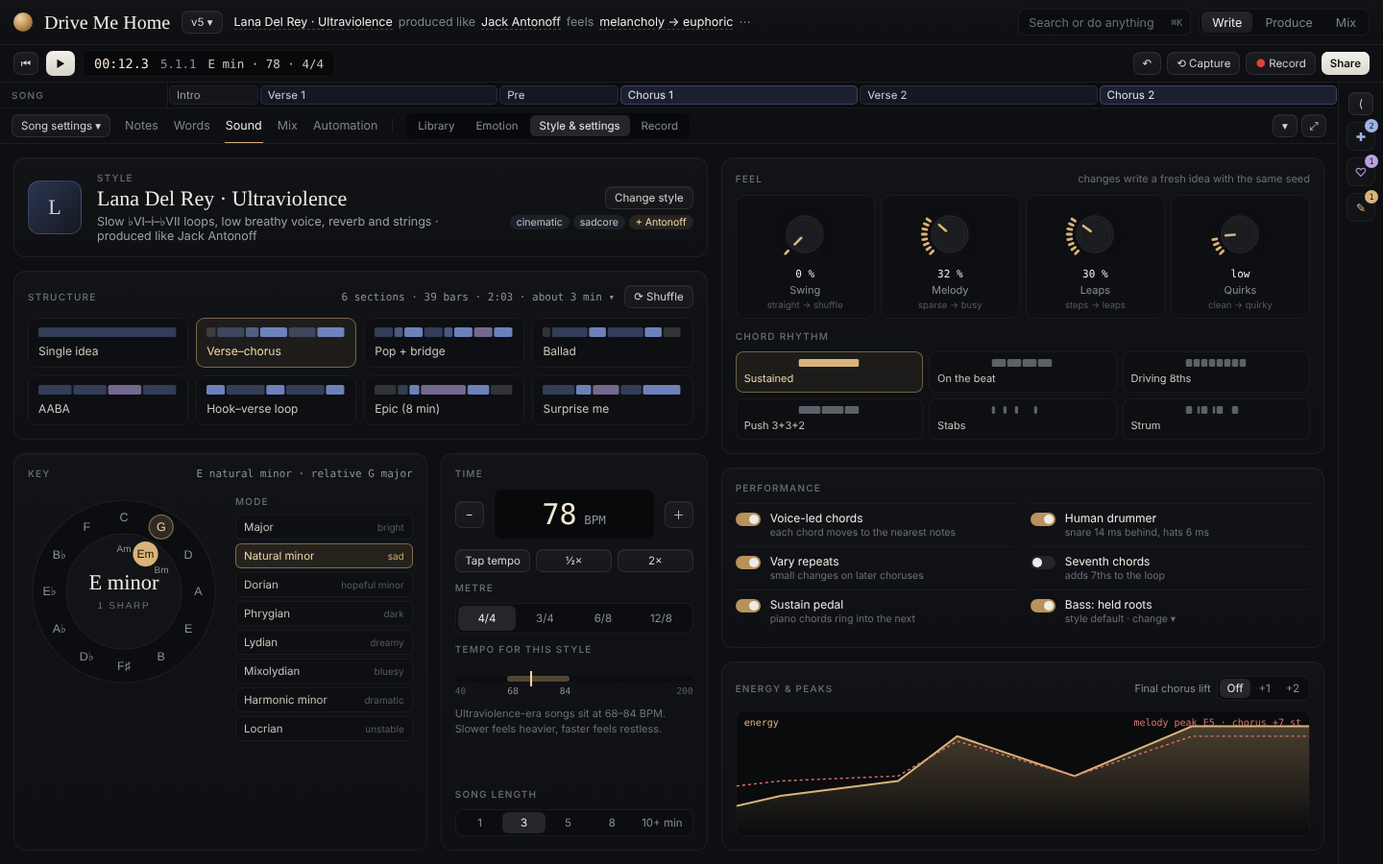
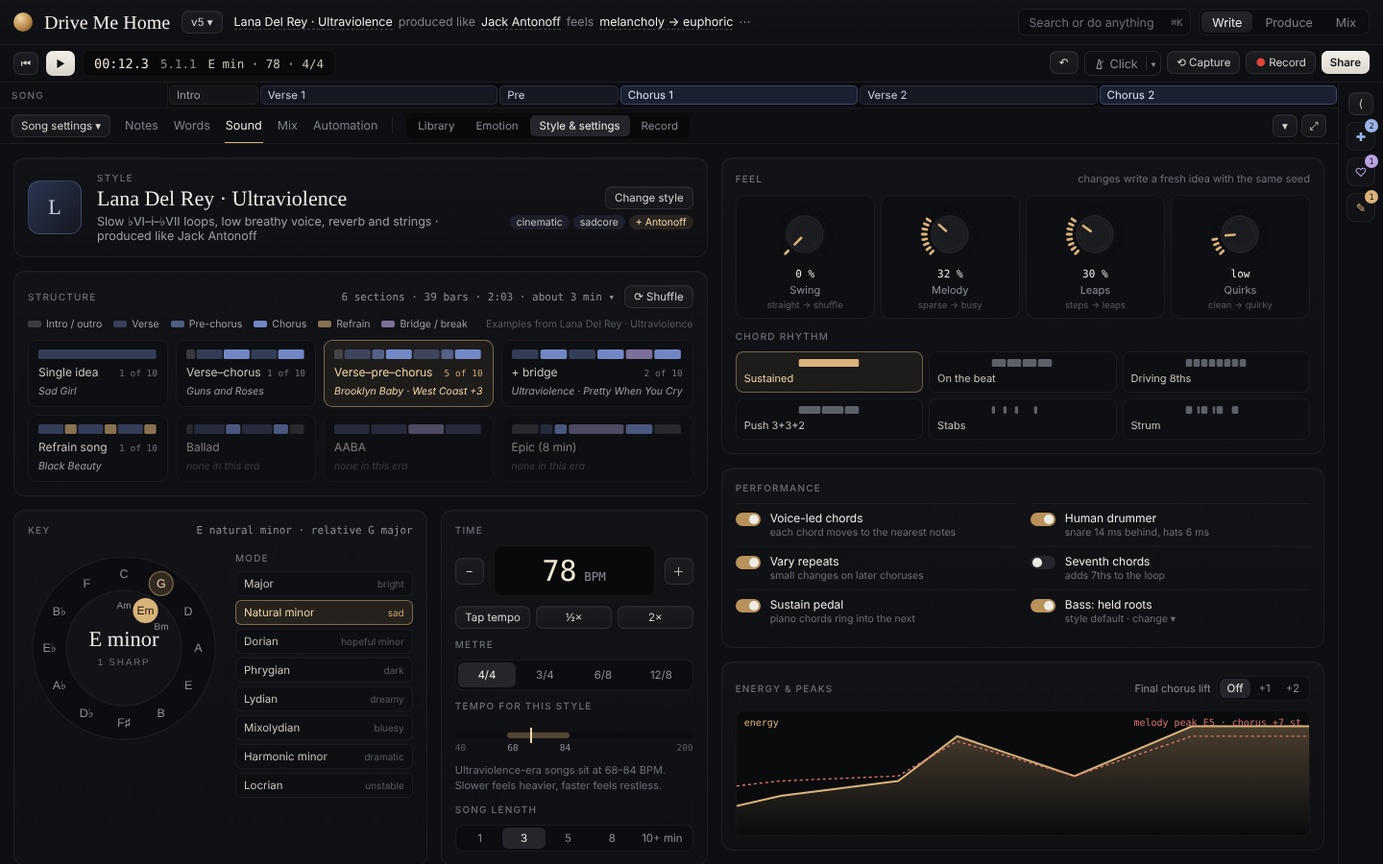
Design: structure cards with the artist's examples and a section colour key; click track (transport toggle, when, sounds incl. your sample, patterns, follows tempo and metre)
Claude-Session: https://claude.ai/code/session_01Gwi5mznyCGAVwjhLcrp4R8

diff --git a/docs/design/panels/reference-Record.dc.html b/docs/design/panels/reference-Record.dc.html
@@ -22,7 +22,7 @@ button{cursor:pointer;white-space:nowrap}
 .xs{height:24px;padding:0 9px;font-size:11.5px}
 </style>
 </helmet>
-<div style="height: 900px; background: #0A0B0D; color: #EDEBE6; font-family: 'Inter Tight', system-ui, sans-serif; font-size: 12.5px; display: flex; flex-direction: column; overflow: hidden">
+<div style="position: relative; height: 900px; background: #0A0B0D; color: #EDEBE6; font-family: 'Inter Tight', system-ui, sans-serif; font-size: 12.5px; display: flex; flex-direction: column; overflow: hidden">
   <header style="height: 46px; flex-shrink: 0; display: flex; align-items: center; gap: 12px; padding: 0 14px; border-bottom: 1px solid rgba(255,255,255,.06); background: linear-gradient(#121316,#0E0F12); white-space: nowrap">
     <span style="flex-shrink: 0; width: 20px; height: 20px; border-radius: 50%; background: radial-gradient(circle at 35% 30%, #F1D6A6, #B8894A 55%, #5E4524)"></span>
     <span class="serif" style="font-size: 20px">Drive Me Home</span><button class="ghost xs">v5 ▾</button>
@@ -33,7 +33,7 @@ button{cursor:pointer;white-space:nowrap}
   <div style="height: 38px; flex-shrink: 0; display: flex; align-items: center; gap: 8px; padding: 0 14px; border-bottom: 1px solid rgba(255,255,255,.06); background: #0E0F12; white-space: nowrap">
     <button class="ghost xs" style="width: 26px; padding: 0">⏮</button><button style="width: 30px; height: 26px; border-radius: 7px; border: 0; background: linear-gradient(#F3F0EA,#D6D2C8); color: #111; font-size: 10px">▶</button>
     <span style="display: flex; align-items: center; gap: 12px; height: 26px; padding: 0 11px; border-radius: 7px; background: #08090A; border: 1px solid rgba(255,255,255,.05)"><span class="mono" style="color: #F1E7D4; font-size: 13.5px">00:12.3</span><span class="mono" style="color: #8A8F98">5.1.1</span><span class="mono" style="color: #C9C5BC">E min · 78 · 4/4</span></span>
-    <span style="margin-left: auto; display: flex; gap: 6px"><button class="ghost xs">↶</button><button class="ghost xs">⟲ Capture</button><button class="ghost xs"><span style="color: #E0443A">●</span> Record</button><button class="prim xs">Share</button></span>
+    <span style="margin-left: auto; display: flex; gap: 6px"><button class="ghost xs">↶</button><sc-if value="{{clickBtn}}" hint-placeholder-val="{{false}}"><span style="display: flex; align-items: center; height: 24px; border-radius: 7px; border: 1px solid {{clickBtn.line}}; background: {{clickBtn.bg}}; overflow: hidden"><button title="Click track (C) · right-click for options" style="height: 22px; padding: 0 8px; border: 0; background: transparent; color: {{clickBtn.ink}}; display: flex; align-items: center; gap: 5px"><svg viewBox="0 0 16 16" width="13" height="13" aria-hidden="true"><path d="M5 14 L7.5 2.5 H8.5 L11 14 Z M8 9 L13 4" fill="none" stroke="{{clickBtn.ink}}" stroke-width="1.3" stroke-linejoin="round"></path></svg>{{clickBtn.n}}</button><span style="width: 1px; height: 14px; background: {{clickBtn.line}}"></span><button style="height: 22px; padding: 0 5px; border: 0; background: transparent; color: {{clickBtn.ink}}; font-size: 9px">▾</button></span></sc-if><button class="ghost xs">⟲ Capture</button><button class="ghost xs"><span style="color: #E0443A">●</span> Record</button><button class="prim xs">Share</button></span>
   </div>
   <div style="flex: 1; display: flex; min-height: 0">
     <main style="flex: 1; min-width: 0; display: flex; flex-direction: column">
@@ -60,7 +60,7 @@ button{cursor:pointer;white-space:nowrap}
     </div>
     <div style="padding: 14px; border-radius: 12px; background: linear-gradient(#121316, #0F1013); border: 1px solid rgba(255,255,255,.06); box-shadow: inset 0 1px 0 rgba(255,255,255,.03); display: flex; flex-direction: column; gap: 10px; min-width: 0">
       <div style="display: flex; justify-content: space-between; align-items: baseline"><span class="sm">MIDI keyboard</span><span style="color: #8A8F98; font-size: 11px">KeyLab 49 · connected</span></div>
-      <svg viewBox="0 0 280 46" style="width: 100%; height: 46px" aria-hidden="true"><sc-for list="{{wk}}" as="k" hint-placeholder-count="21"><rect x="{{k.x}}" y="0" width="12.6" height="46" rx="2" fill="{{k.f}}"></rect></sc-for><sc-for list="{{bk}}" as="k" hint-placeholder-count="15"><rect x="{{k.x}}" y="0" width="8" height="28" rx="1.5" fill="{{k.f}}"></rect></sc-for></svg>
+      <svg viewBox="0 0 280 46" style="width: 100%; height: 46px" aria-hidden="true"><sc-for list="{{wk}}" as="k" hint-placeholder-count="21"><rect x="{{k.x}}" y="0" width="12.6" height="46" rx="2" fill="{{k.f}}" stroke="rgba(255,255,255,.12)"></rect></sc-for><sc-for list="{{bk}}" as="k" hint-placeholder-count="15"><rect x="{{k.x}}" y="0" width="8" height="28" rx="1.5" fill="{{k.f}}"></rect></sc-for></svg>
       <div style="display: flex; gap: 6px; flex-wrap: wrap"><button class="ghost xs">Computer keys</button><button class="ghost xs">Snap 1/16 ▾</button><button class="ghost xs">Controller ◎</button></div>
     </div>
     <div style="padding: 14px; border-radius: 12px; background: linear-gradient(#121316, #0F1013); border: 1px solid rgba(255,255,255,.06); box-shadow: inset 0 1px 0 rgba(255,255,255,.03); display: flex; flex-direction: column; gap: 10px; min-width: 0; flex: 1">
@@ -74,7 +74,7 @@ button{cursor:pointer;white-space:nowrap}
     <div style="padding: 14px; border-radius: 12px; background: linear-gradient(#121316, #0F1013); border: 1px solid rgba(255,255,255,.06); box-shadow: inset 0 1px 0 rgba(255,255,255,.03); display: flex; flex-direction: column; gap: 10px; min-width: 0">
       <div style="display: flex; justify-content: space-between; align-items: baseline"><span class="sm">What are you recording?</span><span style="color: #6B7079; font-size: 11px">into <span style="color: #EDEBE6">Verse 1</span> · from bar 5</span></div>
       <div style="display: grid; grid-template-columns: repeat(4, 1fr); gap: 8px"><sc-for list="{{modesR}}" as="m" hint-placeholder-count="4"><div style="padding: 12px; border-radius: 10px; background: {{m.bg}}; border: 1px solid {{m.line}}; display: flex; flex-direction: column; gap: 6px"><span style="width: 30px; height: 30px; border-radius: 8px; background: {{m.tint}}; color: {{m.c}}; display: flex; align-items: center; justify-content: center; font-size: 14px">{{m.i}}</span><span style="font-weight: 500">{{m.n}}</span><span style="color: #6B7079; font-size: 11px; line-height: 1.4">{{m.d}}</span></div></sc-for></div>
-      <div style="display: flex; gap: 8px; align-items: center; flex-wrap: wrap"><span class="sm">Backing</span><div style="display: flex; padding: 2px; border-radius: 8px; background: #0C0D10; border: 1px solid rgba(255,255,255,.06)"><sc-for list="{{backing}}" as="o" hint-placeholder-count="4"><button style="flex: 1; height: 22px; padding: 0 8px; border-radius: 6px; border: 0; background: {{o.bg}}; color: {{o.ink}}; font-size: 11.5px; white-space: nowrap">{{o.n}}</button></sc-for></div><span class="sm" style="margin-left: 6px">Count-in</span><div style="display: flex; padding: 2px; border-radius: 8px; background: #0C0D10; border: 1px solid rgba(255,255,255,.06)"><sc-for list="{{count}}" as="o" hint-placeholder-count="4"><button style="flex: 1; height: 22px; padding: 0 8px; border-radius: 6px; border: 0; background: {{o.bg}}; color: {{o.ink}}; font-size: 11.5px; white-space: nowrap">{{o.n}}</button></sc-for></div><span style="display: flex; align-items: center; gap: 6px; margin-left: 6px; color: #C9C5BC"><span style="width: 22px; height: 12px; border-radius: 999px; background: #B8925A; position: relative"><span style="position: absolute; top: 2px; left: 12px; width: 8px; height: 8px; border-radius: 50%; background: #EDEBE6"></span></span>Snap to the key</span>
+      <div style="display: flex; gap: 8px; align-items: center; flex-wrap: wrap"><span class="sm">Backing</span><div style="display: flex; padding: 2px; border-radius: 8px; background: #0C0D10; border: 1px solid rgba(255,255,255,.06)"><sc-for list="{{backing}}" as="o" hint-placeholder-count="4"><button style="flex: 1; height: 22px; padding: 0 8px; border-radius: 6px; border: 0; background: {{o.bg}}; color: {{o.ink}}; font-size: 11.5px; white-space: nowrap">{{o.n}}</button></sc-for></div><span class="sm" style="margin-left: 6px">Click</span><div style="display: flex; padding: 2px; border-radius: 8px; background: #0C0D10; border: 1px solid rgba(255,255,255,.06)"><sc-for list="{{clickSeg}}" as="o" hint-placeholder-count="4"><button style="flex: 1; height: 22px; padding: 0 8px; border-radius: 6px; border: 0; background: {{o.bg}}; color: {{o.ink}}; font-size: 11.5px; white-space: nowrap">{{o.n}}</button></sc-for></div><span class="sm" style="margin-left: 6px">Count-in</span><div style="display: flex; padding: 2px; border-radius: 8px; background: #0C0D10; border: 1px solid rgba(255,255,255,.06)"><sc-for list="{{count}}" as="o" hint-placeholder-count="4"><button style="flex: 1; height: 22px; padding: 0 8px; border-radius: 6px; border: 0; background: {{o.bg}}; color: {{o.ink}}; font-size: 11.5px; white-space: nowrap">{{o.n}}</button></sc-for></div><span style="display: flex; align-items: center; gap: 6px; margin-left: 6px; color: #C9C5BC"><span style="width: 22px; height: 12px; border-radius: 999px; background: #B8925A; position: relative"><span style="position: absolute; top: 2px; left: 12px; width: 8px; height: 8px; border-radius: 50%; background: #EDEBE6"></span></span>Snap to the key</span>
         <button style="margin-left: auto; height: 34px; padding: 0 18px; border-radius: 9px; border: 0; background: linear-gradient(#F0625A,#C93A31); color: #fff; font-weight: 600; box-shadow: 0 0 18px rgba(224,68,58,.35)">● Record  <span class="mono" style="opacity: .7; font-size: 10.5px">R</span></button></div>
     </div>
     <div style="padding: 14px; border-radius: 12px; background: linear-gradient(#121316, #0F1013); border: 1px solid rgba(255,255,255,.06); box-shadow: inset 0 1px 0 rgba(255,255,255,.03); display: flex; flex-direction: column; gap: 10px; min-width: 0; flex: 1">
@@ -107,7 +107,17 @@ button{cursor:pointer;white-space:nowrap}
       <sc-for list="{{railI}}" as="r" hint-placeholder-count="3"><button style="position: relative; width: 30px; height: 30px; border-radius: 8px; border: 1px solid rgba(255,255,255,.06); background: #121316; color: {{r.c}}">{{r.i}}<span class="mono" style="position: absolute; right: -4px; top: -4px; min-width: 14px; height: 14px; border-radius: 999px; background: {{r.c}}; color: #141210; font-size: 8.5px; display: flex; align-items: center; justify-content: center">{{r.n}}</span></button></sc-for>
     </aside>
   </div>
-</div>
+
+  <div role="dialog" aria-label="Click track" style="position: absolute; left: 640px; top: 88px; width: 540px; border-radius: 14px; background: linear-gradient(#121316, #0E0F12); border: 1px solid rgba(255,255,255,.09); box-shadow: 0 30px 80px rgba(0,0,0,.75); z-index: 9; overflow: hidden">
+    <div style="padding: 12px 14px; display: flex; align-items: center; gap: 10px; border-bottom: 1px solid rgba(255,255,255,.06)"><span class="serif" style="font-size: 20px">Click</span><span class="mono" style="padding: 2px 8px; border-radius: 6px; background: #08090A; color: #C9C5BC; font-size: 11px">78 BPM · 4/4 · follows the song</span><span style="margin-left: auto; color: #6B7079; font-size: 11px">C on/off · ⇧C cycles “when”</span></div>
+    <div style="padding: 12px 14px; display: flex; flex-direction: column; gap: 12px">
+      <div style="display: grid; grid-template-columns: 70px 1fr; gap: 10px; align-items: center"><span class="sm">When</span><div style="display: flex; padding: 2px; border-radius: 8px; background: #0C0D10; border: 1px solid rgba(255,255,255,.06)"><sc-for list="{{clickWhen}}" as="o" hint-placeholder-count="4"><button style="flex: 1; height: 26px; padding: 0 8px; border-radius: 6px; border: 0; background: {{o.bg}}; color: {{o.ink}}; font-size: 11.5px; white-space: nowrap">{{o.n}}</button></sc-for></div></div>
+      <div style="display: grid; grid-template-columns: 70px 1fr; gap: 10px; align-items: start"><span class="sm" style="padding-top: 6px">Sound</span><div style="display: grid; grid-template-columns: repeat(4, 1fr); gap: 6px"><sc-for list="{{clickSounds}}" as="c" hint-placeholder-count="8"><div style="padding: 7px 8px; border-radius: 8px; background: {{c.bg}}; border: 1px {{c.ls}} {{c.line}}; display: flex; flex-direction: column; gap: 4px"><svg viewBox="0 0 60 14" preserveAspectRatio="none" style="width: 100%; height: 14px" aria-hidden="true"><path d="{{c.w}}" fill="none" stroke="{{c.ink}}" stroke-width="1.3"></path></svg><span style="font-size: 11.5px; color: {{c.ink}}; white-space: nowrap">{{c.n}}</span></div></sc-for></div></div>
+      <div style="display: grid; grid-template-columns: 70px 1fr; gap: 10px; align-items: center"><span class="sm">Pattern</span><div style="display: flex; flex-direction: column; gap: 6px"><div style="display: flex; padding: 2px; border-radius: 8px; background: #0C0D10; border: 1px solid rgba(255,255,255,.06)"><sc-for list="{{clickPat}}" as="o" hint-placeholder-count="4"><button style="flex: 1; height: 24px; padding: 0 8px; border-radius: 6px; border: 0; background: {{o.bg}}; color: {{o.ink}}; font-size: 11.5px; white-space: nowrap">{{o.n}}</button></sc-for></div><div style="display: flex; gap: 4px; align-items: flex-end; height: 22px"><sc-for list="{{clickBeats}}" as="b" hint-placeholder-count="8"><span style="flex: 1; height: {{b.h}}px; border-radius: 2px; background: {{b.c}}"></span></sc-for></div></div></div>
+      <div style="display: grid; grid-template-columns: 70px 1fr; gap: 10px; align-items: center"><span class="sm">Level</span><div style="display: flex; gap: 14px; align-items: center"><span style="display: flex; flex-direction: column; align-items: center"><svg viewBox="0 0 60 60" width="44" height="44" style="flex-shrink: 0" aria-hidden="true"><sc-for list="{{clickVol.seg}}" as="g" hint-placeholder-count="25"><path d="{{g.d}}" stroke="{{g.c}}" stroke-width="2.6" stroke-linecap="round"></path></sc-for><circle cx="30" cy="30" r="18" fill="#1A1C20" stroke="rgba(255,255,255,.08)"></circle><circle cx="30" cy="30" r="14.5" fill="none" stroke="rgba(255,255,255,.035)"></circle><path d="{{clickVol.ptr}}" stroke="{{clickVol.col}}" stroke-width="2.4" stroke-linecap="round"></path></svg><span style="font-size: 10px; color: #8A8F98">Volume −6 dB</span></span><span style="display: flex; flex-direction: column; align-items: center"><svg viewBox="0 0 60 60" width="44" height="44" style="flex-shrink: 0" aria-hidden="true"><sc-for list="{{clickAcc.seg}}" as="g" hint-placeholder-count="25"><path d="{{g.d}}" stroke="{{g.c}}" stroke-width="2.6" stroke-linecap="round"></path></sc-for><circle cx="30" cy="30" r="18" fill="#1A1C20" stroke="rgba(255,255,255,.08)"></circle><circle cx="30" cy="30" r="14.5" fill="none" stroke="rgba(255,255,255,.035)"></circle><path d="{{clickAcc.ptr}}" stroke="{{clickAcc.col}}" stroke-width="2.4" stroke-linecap="round"></path></svg><span style="font-size: 10px; color: #8A8F98">Accent +4 dB</span></span><div style="flex: 1; display: flex; flex-direction: column; gap: 7px"><sc-for list="{{clickOpts}}" as="o" hint-placeholder-count="3"><div style="display: flex; align-items: center; gap: 8px; font-size: 11.5px; color: #C9C5BC"><span style="width: 24px; height: 13px; border-radius: 999px; background: {{o.bg}}; position: relative; flex-shrink: 0"><span style="position: absolute; top: 2px; left: {{o.k}}px; width: 9px; height: 9px; border-radius: 50%; background: #EDEBE6"></span></span>{{o.n}}</div></sc-for></div></div></div>
+    </div>
+    <div style="padding: 9px 14px; border-top: 1px solid rgba(255,255,255,.06); color: #6B7079; font-size: 11px">Always on the song’s grid: tempo changes, metre changes and swing are followed automatically. Never in exports or stems.</div>
+  </div></div>
 </x-dc>
 <script type="text/x-dc" data-dc-script data-props='{"$preview":{"width":1440,"height":900}}'>
 class Component extends DCLogic {
@@ -119,6 +129,7 @@ class Component extends DCLogic {
     var secs = S.map(function (s) { return { n: s[0], b: s[1], bg: look[s[2]][0], line: look[s[2]][1], ink: look[s[2]][2] }; });
     function tabsOf(on) { return ['Notes', 'Words', 'Sound', 'Mix', 'Automation'].map(function (n) { var o = n === on; return { n: n, line: o ? B : 'transparent', ink: o ? '#EDEBE6' : '#7E838C' }; }); }
     function subsOf(list, on) { return list.map(function (n) { var o = n === on; return { n: n, bg: o ? '#24262B' : 'transparent', ink: o ? '#EDEBE6' : '#8A8F98' }; }); }
+    var clickBtn = { n: 'Click', line: 'rgba(255,255,255,.1)', bg: 'transparent', ink: '#8A8F98' };
     var railI = [['✚', '#9DB4E8', 2], ['♡', '#B9A3E3', 1], ['✎', B, 1]].map(function (r) { return { i: r[0], c: r[1], n: r[2] }; });
     function KN(cx, cy, a, r) { a = a * Math.PI / 180; return (cx + r * Math.cos(a)).toFixed(2) + ' ' + (cy + r * Math.sin(a)).toFixed(2); }
     function knob(v, col, size) { var seg = []; for (var k = 0; k <= 24; k++) { var t = k / 24, ang = 135 + t * 270; seg.push({ d: 'M' + KN(30, 30, ang, 27) + ' L' + KN(30, 30, ang, 23), c: t <= v + 1e-6 ? col : '#0C0D10' }); } var pa = 135 + v * 270; return { seg: seg, ptr: 'M' + KN(30, 30, pa, 5) + ' L' + KN(30, 30, pa, 14), size: size || 54, col: col }; }
@@ -128,14 +139,22 @@ function segOf(list, on) { return list.map(function (n) { var o = n === on; retu
     var inOpts = [['Hear myself', 1], ['Low-cut', 1], ['Mono', 1], ['Pre-roll 1 bar', 0]].map(function (o) { var on = !!o[1]; return { n: o[0], bg: on ? '#B8925A' : '#24262B', k: on ? 12 : 2 }; });
     var wk = [], bk = [], hot = { 2: 1, 4: 1, 7: 1 }; for (var k = 0; k < 21; k++) wk.push({ x: (k * 13.3).toFixed(1), f: hot[k] ? '#D9B37A' : '#DAD6CD' }); [0, 1, 3, 4, 5, 7, 8, 10, 11, 12, 14, 15, 17, 18, 19].forEach(function (k) { bk.push({ x: (k * 13.3 + 9).toFixed(1), f: '#17181B' }); });
     var modesR = [['♪', 'Hum a melody', 'Sing or hum: it becomes notes in the key', '#D9776F', 0], ['▤', 'Play keys', 'MIDI or computer keys, with knob moves', '#7C95D9', 0], ['∿', 'Voice or instrument', 'Records audio takes you can comp', '#D9776F', 1], ['⤓', 'Import a take', 'A WAV or phone memo, fitted to the song', '#8A8F98', 0]].map(function (m) { var on = !!m[4]; return { i: m[0], n: m[1], d: m[2], c: m[3], tint: 'rgba(255,255,255,.04)', bg: on ? 'rgba(217,119,111,.07)' : '#0E0F12', line: on ? 'rgba(217,119,111,.5)' : 'rgba(255,255,255,.05)' }; });
-    var backing = segOf(['Full', 'Chords + drums', 'Drums', 'Click'], 'Chords + drums'), count = segOf(['Off', '1 bar', '2 bars'], '1 bar');
+    var backing = segOf(['Full', 'Chords + drums', 'Drums', 'None'], 'Chords + drums'), count = segOf(['Off', '1 bar', '2 bars'], '1 bar');
     var bars = ['5', '6', '7', '8', '9', '10', '11', '12'];
     var sd = 7; function rr() { sd = (sd * 9301 + 49297) % 233280; return sd / 233280; }
     function wave(seed) { sd = seed; var d = ''; for (var x = 0; x <= 800; x += 3) { var ph = (x % 100) / 100, env = ph < .75 ? Math.sin(ph / .75 * Math.PI) : 0; var a = (2 + env * 15) * (.6 + rr() * .4); d += 'M' + x + ' ' + (20 - a).toFixed(1) + ' L' + x + ' ' + (20 + a).toFixed(1) + ' '; } return d; }
     var takes = [['Take 3', '0:41 · today', 3, [[0, 37.5], [75, 25]], 1], ['Take 2', 'pitchy bar 9', 11, [], 0], ['Take 1', 'best “blue”', 19, [[37.5, 37.5]], 0], ['Take 4', 'recording…', 27, [], 0]].map(function (t) { var on = !!t[4]; var w = wave(t[2]); if (t[0] === 'Take 4') { w = w.split(' M').filter(function (seg) { var x = parseFloat(seg.replace('M', '')); return x <= 520; }).join(' M'); } return { n: t[0], d: t[1], wave: w, comp: t[3].map(function (c) { return { l: c[0], w: c[1] }; }), wc: t[0] === 'Take 4' ? '#FF8A80' : '#9BA0A8', line: on ? 'rgba(217,119,111,.35)' : 'rgba(255,255,255,.05)', ink: t[0] === 'Take 4' ? '#FFB3AC' : '#EDEBE6' }; });
     var topts = [['Punch in', 'bars 8–10', 'only these bars record; click the ruler to set', 1], ['Loop record', 'bars 5–12', 'each pass becomes a new take'], ['Tuning', 'Natural ▾', 'gentle pitch help, never robotic'], ['Timing', '+0 ms', 'shift takes that land late or early']].map(function (o) { var on = !!o[3]; return { k: o[0], v: o[1], d: o[2], line: on ? 'rgba(224,68,58,.4)' : 'rgba(255,255,255,.05)', kc: on ? '#FFB3AC' : '#6B7079' }; });
+    var clickBtn = { n: 'Click · rec', line: 'rgba(217,179,122,.55)', bg: 'rgba(217,179,122,.12)', ink: '#F1D6A6' };
+    var clickSeg = segOf(['Off', 'Recording', 'Always'], 'Recording'), clickWhen = segOf(['Off', 'Only while recording', 'Always', 'Count-in only'], 'Only while recording');
+    function cw(kind) { var d = ''; for (var x = 0; x <= 60; x += 1.5) { var e = Math.exp(-x / (kind === 'soft' ? 9 : kind === 'long' ? 18 : 4)), f = kind === 'noise' ? (((x * 7.3) % 1) - .5) * 2 : Math.sin(x * (kind === 'high' ? 2.2 : 1.2)); d += (x ? ' L' : 'M') + x + ' ' + (7 - f * e * 6).toFixed(2); } return d; }
+    var clickSounds = [['Wood', 'soft', 1], ['Classic beep', 'high'], ['Rim', 'hard'], ['Hi-hat', 'noise'], ['Shaker', 'noise'], ['Cowbell', 'long'], ['Song’s kit', 'hard'], ['Your sample…', 'none']].map(function (c) { var on = !!c[2], own = c[1] === 'none'; return { n: c[0], w: own ? 'M30 2 V12 M25 7 H35' : cw(c[1]), bg: on ? 'rgba(217,179,122,.1)' : own ? 'transparent' : '#0E0F12', line: on ? 'rgba(217,179,122,.55)' : 'rgba(255,255,255,.1)', ls: own ? 'dashed' : 'solid', ink: on ? '#F1D6A6' : own ? '#8A8F98' : '#C9C5BC' }; });
+    var clickPat = segOf(['Every beat', 'Accent bar 1', '8ths', 'Follow groove', 'Bars only'], 'Accent bar 1');
+    var clickBeats = [20, 9, 9, 9, 20, 9, 9, 9].map(function (h, i) { return { h: h, c: i === 0 || i === 4 ? '#D9B37A' : 'rgba(217,179,122,.35)' }; });
+    var clickVol = knob(.62, '#D9B37A', 40), clickAcc = knob(.7, '#D9B37A', 40);
+    var clickOpts = [['Flash the beat on screen', 1], ['Click only in headphones (app)', 1], ['Mute during count-in only', 0]].map(function (o) { var on = !!o[1]; return { n: o[0], bg: on ? '#B8925A' : '#24262B', k: on ? 13 : 2 }; });
     var compRow = [['Take 3 · bars 5–7', 3], ['Take 1 · bars 8–10', 3], ['Take 3 · bars 11–12', 2]].map(function (c) { return { n: c[0], w: c[1] }; });
-    return { secs: secs, tabs: tabsOf('Sound'), subs: subsOf(['Library', 'Emotion', 'Style & settings', 'Record'], 'Record'), railI: railI, gain: gain, lvl: lvl, inOpts: inOpts, wk: wk, bk: bk, modesR: modesR, backing: backing, count: count, bars: bars, takes: takes, compRow: compRow, topts: topts };
+    return { secs: secs, tabs: tabsOf('Sound'), subs: subsOf(['Library', 'Emotion', 'Style & settings', 'Record'], 'Record'), railI: railI, gain: gain, lvl: lvl, inOpts: inOpts, wk: wk, bk: bk, modesR: modesR, backing: backing, count: count, bars: bars, takes: takes, compRow: compRow, topts: topts, clickBtn: clickBtn, clickSeg: clickSeg, clickWhen: clickWhen, clickSounds: clickSounds, clickPat: clickPat, clickBeats: clickBeats, clickVol: clickVol, clickAcc: clickAcc, clickOpts: clickOpts };
   }
 }
 </script>

diff --git a/docs/design/panels/reference-Style.dc.html b/docs/design/panels/reference-Style.dc.html
@@ -33,7 +33,7 @@ button{cursor:pointer;white-space:nowrap}
   <div style="height: 38px; flex-shrink: 0; display: flex; align-items: center; gap: 8px; padding: 0 14px; border-bottom: 1px solid rgba(255,255,255,.06); background: #0E0F12; white-space: nowrap">
     <button class="ghost xs" style="width: 26px; padding: 0">⏮</button><button style="width: 30px; height: 26px; border-radius: 7px; border: 0; background: linear-gradient(#F3F0EA,#D6D2C8); color: #111; font-size: 10px">▶</button>
     <span style="display: flex; align-items: center; gap: 12px; height: 26px; padding: 0 11px; border-radius: 7px; background: #08090A; border: 1px solid rgba(255,255,255,.05)"><span class="mono" style="color: #F1E7D4; font-size: 13.5px">00:12.3</span><span class="mono" style="color: #8A8F98">5.1.1</span><span class="mono" style="color: #C9C5BC">E min · 78 · 4/4</span></span>
-    <span style="margin-left: auto; display: flex; gap: 6px"><button class="ghost xs">↶</button><button class="ghost xs">⟲ Capture</button><button class="ghost xs"><span style="color: #E0443A">●</span> Record</button><button class="prim xs">Share</button></span>
+    <span style="margin-left: auto; display: flex; gap: 6px"><button class="ghost xs">↶</button><sc-if value="{{clickBtn}}" hint-placeholder-val="{{false}}"><span style="display: flex; align-items: center; height: 24px; border-radius: 7px; border: 1px solid {{clickBtn.line}}; background: {{clickBtn.bg}}; overflow: hidden"><button title="Click track (C) · right-click for options" style="height: 22px; padding: 0 8px; border: 0; background: transparent; color: {{clickBtn.ink}}; display: flex; align-items: center; gap: 5px"><svg viewBox="0 0 16 16" width="13" height="13" aria-hidden="true"><path d="M5 14 L7.5 2.5 H8.5 L11 14 Z M8 9 L13 4" fill="none" stroke="{{clickBtn.ink}}" stroke-width="1.3" stroke-linejoin="round"></path></svg>{{clickBtn.n}}</button><span style="width: 1px; height: 14px; background: {{clickBtn.line}}"></span><button style="height: 22px; padding: 0 5px; border: 0; background: transparent; color: {{clickBtn.ink}}; font-size: 9px">▾</button></span></sc-if><button class="ghost xs">⟲ Capture</button><button class="ghost xs"><span style="color: #E0443A">●</span> Record</button><button class="prim xs">Share</button></span>
   </div>
   <div style="flex: 1; display: flex; min-height: 0">
     <main style="flex: 1; min-width: 0; display: flex; flex-direction: column">
@@ -58,8 +58,9 @@ button{cursor:pointer;white-space:nowrap}
     </div>
     <div style="padding: 14px; border-radius: 12px; background: linear-gradient(#121316, #0F1013); border: 1px solid rgba(255,255,255,.06); box-shadow: inset 0 1px 0 rgba(255,255,255,.03); display: flex; flex-direction: column; gap: 10px; min-width: 0">
       <div style="display: flex; justify-content: space-between; align-items: baseline"><span class="sm">Structure</span><span style="display: flex; gap: 10px; align-items: center"><span class="mono" style="color: #8A8F98; font-size: 11px">6 sections · 39 bars · 2:03 · about 3 min ▾</span><button class="ghost xs">⟳ Shuffle</button></span></div>
+      <div style="display: flex; gap: 12px; align-items: center; flex-wrap: wrap"><sc-for list="{{legend}}" as="l" hint-placeholder-count="6"><span style="display: flex; align-items: center; gap: 5px; font-size: 10.5px; color: #9BA0A8"><span style="width: 14px; height: 7px; border-radius: 2px; background: {{l.c}}"></span>{{l.n}}</span></sc-for><span style="margin-left: auto; color: #555A62; font-size: 10.5px">Examples from Lana Del Rey · Ultraviolence</span></div>
       <div style="display: grid; grid-template-columns: repeat(4, 1fr); gap: 8px">
-        <sc-for list="{{forms}}" as="f" hint-placeholder-count="8"><div style="padding: 9px 10px; border-radius: 9px; background: {{f.bg}}; border: 1px solid {{f.line}}; display: flex; flex-direction: column; gap: 7px"><svg viewBox="0 0 100 10" preserveAspectRatio="none" style="width: 100%; height: 10px" aria-hidden="true"><sc-for list="{{f.blocks}}" as="b" hint-placeholder-count="6"><rect x="{{b.x}}" y="0" width="{{b.w}}" height="10" rx="1.5" fill="{{b.c}}"></rect></sc-for></svg><span style="font-size: 12px; color: {{f.ink}}">{{f.n}}</span></div></sc-for>
+        <sc-for list="{{forms}}" as="f" hint-placeholder-count="8"><div style="padding: 9px 10px; border-radius: 9px; background: {{f.bg}}; border: 1px solid {{f.line}}; display: flex; flex-direction: column; gap: 6px; opacity: {{f.op}}"><svg viewBox="0 0 100 10" preserveAspectRatio="none" style="width: 100%; height: 10px" aria-hidden="true"><sc-for list="{{f.blocks}}" as="b" hint-placeholder-count="6"><rect x="{{b.x}}" y="0" width="{{b.w}}" height="10" rx="1.5" fill="{{b.c}}"></rect></sc-for></svg><span style="display: flex; justify-content: space-between; align-items: baseline; gap: 6px"><span style="font-size: 12px; color: {{f.ink}}; white-space: nowrap">{{f.n}}</span><span class="mono" style="font-size: 9.5px; color: {{f.cc}}">{{f.count}}</span></span><span style="font-size: 10.5px; color: {{f.ex}}; font-style: italic; white-space: nowrap; overflow: hidden; text-overflow: ellipsis">{{f.songs}}</span></div></sc-for>
       </div>
     </div>
     <div style="display: grid; grid-template-columns: 1.55fr 1fr; gap: 14px; flex: 1; min-height: 0">
@@ -127,12 +128,15 @@ class Component extends DCLogic {
     var secs = S.map(function (s) { return { n: s[0], b: s[1], bg: look[s[2]][0], line: look[s[2]][1], ink: look[s[2]][2] }; });
     function tabsOf(on) { return ['Notes', 'Words', 'Sound', 'Mix', 'Automation'].map(function (n) { var o = n === on; return { n: n, line: o ? B : 'transparent', ink: o ? '#EDEBE6' : '#7E838C' }; }); }
     function subsOf(list, on) { return list.map(function (n) { var o = n === on; return { n: n, bg: o ? '#24262B' : 'transparent', ink: o ? '#EDEBE6' : '#8A8F98' }; }); }
+    var clickBtn = { n: 'Click', line: 'rgba(255,255,255,.1)', bg: 'transparent', ink: '#8A8F98' };
     var railI = [['✚', '#9DB4E8', 2], ['♡', '#B9A3E3', 1], ['✎', B, 1]].map(function (r) { return { i: r[0], c: r[1], n: r[2] }; });
     function KN(cx, cy, a, r) { a = a * Math.PI / 180; return (cx + r * Math.cos(a)).toFixed(2) + ' ' + (cy + r * Math.sin(a)).toFixed(2); }
     function knob(v, col, size) { var seg = []; for (var k = 0; k <= 24; k++) { var t = k / 24, ang = 135 + t * 270; seg.push({ d: 'M' + KN(30, 30, ang, 27) + ' L' + KN(30, 30, ang, 23), c: t <= v + 1e-6 ? col : '#0C0D10' }); } var pa = 135 + v * 270; return { seg: seg, ptr: 'M' + KN(30, 30, pa, 5) + ' L' + KN(30, 30, pa, 14), size: size || 54, col: col }; }
 function segOf(list, on) { return list.map(function (n) { var o = n === on; return { n: n, bg: o ? '#24262B' : 'transparent', ink: o ? '#EDEBE6' : '#8A8F98' }; }); }
-    function blocks(p) { var tot = p.reduce(function (a, b) { return a + b[1]; }, 0), x = 0, C = { e: 'rgba(155,160,168,.25)', v: 'rgba(124,149,217,.35)', p: 'rgba(124,149,217,.55)', c: 'rgba(124,149,217,.85)', b: 'rgba(185,163,227,.6)' }; return p.map(function (q) { var w = q[1] / tot * 100, o = { x: x.toFixed(1), w: Math.max(.5, w - 1.2).toFixed(1), c: C[q[0]] }; x += w; return o; }); }
-    var forms = [['Single idea', [['v', 8]]], ['Verse–chorus', [['e', 3], ['v', 8], ['p', 4], ['c', 8], ['v', 8], ['c', 8]], 1], ['Pop + bridge', [['v', 8], ['p', 4], ['c', 8], ['v', 8], ['p', 4], ['c', 8], ['b', 8], ['c', 8]]], ['Ballad', [['e', 4], ['v', 16], ['c', 8], ['v', 16], ['c', 8], ['e', 8]]], ['AABA', [['v', 8], ['v', 8], ['b', 8], ['v', 8]]], ['Hook–verse loop', [['c', 4], ['v', 8], ['c', 4], ['v', 8], ['c', 4]]], ['Epic (8 min)', [['e', 16], ['v', 8], ['c', 8], ['b', 32], ['c', 16], ['e', 16]]], ['Surprise me', [['v', 6], ['c', 3], ['b', 5], ['v', 4], ['c', 7]]]].map(function (f) { var on = !!f[2]; return { n: f[0], blocks: blocks(f[1]), bg: on ? 'rgba(217,179,122,.07)' : '#0E0F12', line: on ? 'rgba(217,179,122,.5)' : 'rgba(255,255,255,.05)', ink: on ? '#F1D6A6' : '#C9C5BC' }; });
+    var SC = { e: 'rgba(155,160,168,.3)', v: 'rgba(124,149,217,.35)', p: 'rgba(124,149,217,.58)', c: 'rgba(124,149,217,.9)', r: 'rgba(217,179,122,.6)', b: 'rgba(185,163,227,.65)' };
+    function blocks(p) { var tot = p.reduce(function (a, b) { return a + b[1]; }, 0), x = 0, C = SC; return p.map(function (q) { var w = q[1] / tot * 100, o = { x: x.toFixed(1), w: Math.max(.5, w - 1.2).toFixed(1), c: C[q[0]] }; x += w; return o; }); }
+    var forms = [['Single idea', [['v', 8]], 0, ['Sad Girl']], ['Verse–chorus', [['e', 3], ['v', 8], ['c', 8], ['v', 8], ['c', 8]], 0, ['Guns and Roses']], ['Verse–pre–chorus', [['e', 3], ['v', 8], ['p', 4], ['c', 8], ['v', 8], ['p', 4], ['c', 8]], 1, ['Brooklyn Baby', 'West Coast', 'Shades of Cool', 'Cruel World', 'Old Money']], ['+ bridge', [['v', 8], ['c', 8], ['v', 8], ['c', 8], ['b', 8], ['c', 8]], 0, ['Ultraviolence', 'Pretty When You Cry']], ['Refrain song', [['v', 8], ['r', 4], ['v', 8], ['r', 4], ['v', 8], ['r', 4]], 0, ['Black Beauty']], ['Ballad', [['e', 4], ['v', 16], ['c', 8], ['v', 16], ['c', 8], ['e', 8]], 0, []], ['AABA', [['v', 8], ['v', 8], ['b', 8], ['v', 8]], 0, []], ['Epic (8 min)', [['e', 16], ['v', 8], ['c', 8], ['b', 32], ['c', 16], ['e', 16]], 0, []]].map(function (f) { var on = !!f[2], n = f[3].length; return { n: f[0], blocks: blocks(f[1]), songs: n ? f[3].slice(0, 2).join(' · ') + (n > 2 ? ' +' + (n - 2) : '') : 'none in this era', count: n ? n + ' of 10' : '', cc: on ? '#C9A46A' : '#6B7079', ex: n ? (on ? '#F1D6A6' : '#9BA0A8') : '#555A62', op: n ? 1 : .6, bg: on ? 'rgba(217,179,122,.07)' : '#0E0F12', line: on ? 'rgba(217,179,122,.5)' : 'rgba(255,255,255,.05)', ink: on ? '#F1D6A6' : '#C9C5BC' }; });
+    var legend = [['Intro / outro', 'e'], ['Verse', 'v'], ['Pre-chorus', 'p'], ['Chorus', 'c'], ['Refrain', 'r'], ['Bridge / break', 'b']].map(function (l) { return { n: l[0], c: SC[l[1]] }; });
     var circle = ['C', 'G', 'D', 'A', 'E', 'B', 'F♯', 'D♭', 'A♭', 'E♭', 'B♭', 'F'], inner = ['Am', 'Em', 'Bm', 'F♯m', 'C♯m', 'G♯m', 'D♯m', 'B♭m', 'Fm', 'Cm', 'Gm', 'Dm'];
     var cof = []; circle.forEach(function (n, i) { var a = (i * 30 - 90) * Math.PI / 180; cof.push({ n: n, x: (80 + 62 * Math.cos(a)).toFixed(1), y: (80 + 62 * Math.sin(a)).toFixed(1), ty: (83.5 + 62 * Math.sin(a)).toFixed(1), r: 10, fs: 10, bg: n === 'G' ? 'rgba(217,179,122,.18)' : 'transparent', line: n === 'G' ? 'rgba(217,179,122,.5)' : 'transparent', ink: n === 'G' ? '#F1D6A6' : '#8A8F98' }); if (i <= 2) cof.push({ n: inner[i], x: (80 + 36 * Math.cos(a)).toFixed(1), y: (80 + 36 * Math.sin(a)).toFixed(1), ty: (83 + 36 * Math.sin(a)).toFixed(1), r: i === 1 ? 10.5 : 0, fs: i === 1 ? 9.5 : 8, bg: i === 1 ? '#D9B37A' : 'transparent', line: 'transparent', ink: i === 1 ? '#1B1408' : '#8A8F98' }); });
     var modes = [['Major', 'bright'], ['Natural minor', 'sad', 1], ['Dorian', 'hopeful minor'], ['Phrygian', 'dark'], ['Lydian', 'dreamy'], ['Mixolydian', 'bluesy'], ['Harmonic minor', 'dramatic'], ['Locrian', 'unstable']].map(function (m) { var on = !!m[2]; return { n: m[0], f: m[1], bg: on ? 'rgba(217,179,122,.1)' : '#0E0F12', line: on ? 'rgba(217,179,122,.5)' : 'rgba(255,255,255,.05)', ink: on ? '#F1D6A6' : '#C9C5BC', fc: on ? '#C9A46A' : '#555A62' }; });
@@ -144,7 +148,7 @@ function segOf(list, on) { return list.map(function (n) { var o = n === on; retu
     var lift = segOf(['Off', '+1', '+2'], 'Off'); var lens = segOf(['1', '3', '5', '8', '10+ min'], '3');
     var E = [[0, .2], [3, .3], [11, .45], [15, .9], [23, .5], [31, 1], [39, 1]], P = [[0, .4], [3, .45], [11, .5], [15, .85], [23, .5], [31, .9], [39, .9]];
     function L(a) { return 'M' + a.map(function (p) { return (p[0] / 39 * 1000).toFixed(0) + ' ' + (92 - p[1] * 80).toFixed(1); }).join(' L'); }
-    return { secs: secs, tabs: tabsOf('Sound'), subs: subsOf(['Library', 'Emotion', 'Style & settings', 'Record'], 'Style & settings'), railI: railI, forms: forms, cof: cof, modes: modes, meters: meters, knobs: knobs, rhythms: rhythms, perf: perf, lift: lift, lens: lens, en: L(E), pk: L(P) };
+    return { clickBtn: clickBtn, legend: legend, secs: secs, tabs: tabsOf('Sound'), subs: subsOf(['Library', 'Emotion', 'Style & settings', 'Record'], 'Style & settings'), railI: railI, forms: forms, cof: cof, modes: modes, meters: meters, knobs: knobs, rhythms: rhythms, perf: perf, lift: lift, lens: lens, en: L(E), pk: L(P) };
   }
 }
 </script>

diff --git a/docs/design/panels/reference-Mixer.dc.html b/docs/design/panels/reference-Mixer.dc.html
@@ -33,7 +33,7 @@ button{cursor:pointer;white-space:nowrap}
   <div style="height: 38px; flex-shrink: 0; display: flex; align-items: center; gap: 8px; padding: 0 14px; border-bottom: 1px solid rgba(255,255,255,.06); background: #0E0F12; white-space: nowrap">
     <button class="ghost xs" style="width: 26px; padding: 0">⏮</button><button style="width: 30px; height: 26px; border-radius: 7px; border: 0; background: linear-gradient(#F3F0EA,#D6D2C8); color: #111; font-size: 10px">▶</button>
     <span style="display: flex; align-items: center; gap: 12px; height: 26px; padding: 0 11px; border-radius: 7px; background: #08090A; border: 1px solid rgba(255,255,255,.05)"><span class="mono" style="color: #F1E7D4; font-size: 13.5px">00:12.3</span><span class="mono" style="color: #8A8F98">5.1.1</span><span class="mono" style="color: #C9C5BC">E min · 78 · 4/4</span></span>
-    <span style="margin-left: auto; display: flex; gap: 6px"><button class="ghost xs">↶</button><button class="ghost xs">⟲ Capture</button><button class="ghost xs"><span style="color: #E0443A">●</span> Record</button><button class="prim xs">Share</button></span>
+    <span style="margin-left: auto; display: flex; gap: 6px"><button class="ghost xs">↶</button><sc-if value="{{clickBtn}}" hint-placeholder-val="{{false}}"><span style="display: flex; align-items: center; height: 24px; border-radius: 7px; border: 1px solid {{clickBtn.line}}; background: {{clickBtn.bg}}; overflow: hidden"><button title="Click track (C) · right-click for options" style="height: 22px; padding: 0 8px; border: 0; background: transparent; color: {{clickBtn.ink}}; display: flex; align-items: center; gap: 5px"><svg viewBox="0 0 16 16" width="13" height="13" aria-hidden="true"><path d="M5 14 L7.5 2.5 H8.5 L11 14 Z M8 9 L13 4" fill="none" stroke="{{clickBtn.ink}}" stroke-width="1.3" stroke-linejoin="round"></path></svg>{{clickBtn.n}}</button><span style="width: 1px; height: 14px; background: {{clickBtn.line}}"></span><button style="height: 22px; padding: 0 5px; border: 0; background: transparent; color: {{clickBtn.ink}}; font-size: 9px">▾</button></span></sc-if><button class="ghost xs">⟲ Capture</button><button class="ghost xs"><span style="color: #E0443A">●</span> Record</button><button class="prim xs">Share</button></span>
   </div>
   <div style="flex: 1; display: flex; min-height: 0">
     <main style="flex: 1; min-width: 0; display: flex; flex-direction: column">
@@ -104,6 +104,7 @@ class Component extends DCLogic {
     var secs = S.map(function (s) { return { n: s[0], b: s[1], bg: look[s[2]][0], line: look[s[2]][1], ink: look[s[2]][2] }; });
     function tabsOf(on) { return ['Notes', 'Words', 'Sound', 'Mix', 'Automation'].map(function (n) { var o = n === on; return { n: n, line: o ? B : 'transparent', ink: o ? '#EDEBE6' : '#7E838C' }; }); }
     function subsOf(list, on) { return list.map(function (n) { var o = n === on; return { n: n, bg: o ? '#24262B' : 'transparent', ink: o ? '#EDEBE6' : '#8A8F98' }; }); }
+    var clickBtn = { n: 'Click', line: 'rgba(255,255,255,.1)', bg: 'transparent', ink: '#8A8F98' };
     var railI = [['✚', '#9DB4E8', 2], ['♡', '#B9A3E3', 1], ['✎', B, 1]].map(function (r) { return { i: r[0], c: r[1], n: r[2] }; });
     function KN(cx, cy, a, r) { a = a * Math.PI / 180; return (cx + r * Math.cos(a)).toFixed(2) + ' ' + (cy + r * Math.sin(a)).toFixed(2); }
     function knob(v, col, size) { var seg = []; for (var k = 0; k <= 24; k++) { var t = k / 24, ang = 135 + t * 270; seg.push({ d: 'M' + KN(30, 30, ang, 27) + ' L' + KN(30, 30, ang, 23), c: t <= v + 1e-6 ? col : '#0C0D10' }); } var pa = 135 + v * 270; return { seg: seg, ptr: 'M' + KN(30, 30, pa, 5) + ' L' + KN(30, 30, pa, 14), size: size || 54, col: col }; }
@@ -115,7 +116,7 @@ function segOf(list, on) { return list.map(function (n) { var o = n === on; retu
     var route = [['Melody', '#D9776F', 'Ch 1', 0], ['Chords', '#7C95D9', 'Ch 2', 0], ['Counter', '#E3A9C9', 'Ch 3', 1], ['Bass', '#D5A35F', 'Ch 4', 0]].map(function (r) { var on = !!r[3]; return { n: r[0], c: r[1], ch: r[2], bg: on ? '#B8925A' : '#24262B', k: on ? 13 : 2, chBg: on ? 'rgba(217,179,122,.15)' : '#0A0B0D', chInk: on ? '#F1D6A6' : '#6B7079' }; });
     var dOpts = [['Mute Semitone’s sound for parts sent out', 1], ['Send clock & song position', 1]].map(function (o) { var on = !!o[1]; return { n: o[0], bg: on ? '#B8925A' : '#24262B', k: on ? 13 : 2 }; });
     var sendTo = [['⇥', 'Drag a section', 'audio, or ⌥ for MIDI, onto FL’s playlist'], ['▤', 'Stems & MIDI', 'every part, in Share'], ['⚑', 'Markers in FL', 'section names on FL’s playlist']].map(function (x) { return { i: x[0], n: x[1], d: x[2] }; });
-    return { secs: secs, tabs: tabsOf('Mix'), subs: subsOf(['Mixer', 'Snapshots'], 'Mixer'), railI: railI, strips: strips, master: master, mfx: mfx, route: route, dOpts: dOpts, sendTo: sendTo };
+    return { clickBtn: clickBtn, secs: secs, tabs: tabsOf('Mix'), subs: subsOf(['Mixer', 'Snapshots'], 'Mixer'), railI: railI, strips: strips, master: master, mfx: mfx, route: route, dOpts: dOpts, sendTo: sendTo };
   }
 }
 </script>

diff --git a/docs/design/panels/README.md b/docs/design/panels/README.md
@@ -11,8 +11,20 @@ away as a tab**: what it did moves into the mixer and Share.
 Two columns of cards, no page scroll at 1440×900:
 - **Style:** a monogram tile, the style name in serif, its one-line description and producer, tag chips, and **Change style** (opens the tag picker).
   Project Save/Open/New move to the logo menu and ⌘S/⌘O (the title is already in the header).
-- **Structure:** eight picture cards (Single idea, Verse–chorus, Pop + bridge, Ballad, AABA, Hook–verse loop, Epic, Surprise me). Each draws its
+- **Structure:** picture cards (Single idea, Verse–chorus, Verse–pre–chorus, + bridge, Refrain song, Ballad, AABA, Epic). Each draws its
   shape as coloured blocks, and the current one is ringed in brass. The header shows sections · bars · time · length ▾ and ⟳ Shuffle.
+  - **Colour key** above the cards (and the same colours on the timeline's section pills): Intro / outro grey, Verse light blue, Pre-chorus
+    mid blue, Chorus strong blue, Refrain brass, Bridge / break violet. They are alpha tints of theme tokens, so they work in every theme.
+    Add a `sectionColors` token group to themes.json.
+  - **Examples from the chosen artist or era** on every card: up to two song titles in italics ("Brooklyn Baby · West Coast +3") and a count
+    ("5 of 10"). A card with none says "none in this era" and dims. Hovering or ⌥-clicking a card opens the full list, with "Use this shape"
+    and "Hear its shape" (plays the song's own sections as a sketch with the current sounds, never the original recording).
+  - **Where the examples come from:** today `progressions.json` lists the section types per song (verse, pre, chorus, bridge, refrain, outro), so
+    classify by which types appear (verse only → Single idea; + chorus → Verse–chorus; + pre → Verse–pre–chorus; + bridge → + bridge; refrain →
+    Refrain song). That's a guide, so the header says "Examples from <style>". For accuracy, add an optional `form` per song in catalog.json
+    (the real section order, e.g. `"form": "I V P C V P C B C O"`, with a source). Use `form` when present. `check_style_data.py` checks the
+    letters. Ballad, AABA and Epic need `form` or a length to be detected.
+  - Example counts follow the selected style tags (a blend shows songs from each, marked by artist).
 - **Key:** a **circle of fifths** (majors outside, the relative minors near the key inside, the current key filled brass, its relative major ringed)
   with "E minor · 1 sharp" in the middle. Beside it, the **mode** list, each with its feeling (bright, sad, hopeful minor, dark, dreamy, bluesy,
   dramatic, unstable).
@@ -41,6 +53,30 @@ Every change is one undo step, and "changes write a fresh idea with the same see
   ▶ and ★, and **Make melody from comp** turns it into notes.
 - **Options:** Punch in (bars, set by clicking the ruler), Loop record (each pass a new take), Tuning (Off, Natural, Tight; never robotic by default),
   and Timing (ms shift).
+
+### Click track (like FL Studio's metronome, `2-Record.png` shows the menu open)
+- **One button in the transport**, always visible in every lens: a metronome icon + "Click", with a ▾. Click it (or press **C**) to turn it on or off.
+  When on it is lit brass and says when it plays: "Click · rec" (only while recording) or "Click" (always). **⇧C** cycles the "when" setting.
+- **The ▾, or a right-click on the button,** opens the Click menu. It's small and in plain words, and the same menu is on Record's "Click" segment
+  (Off / Recording / Always):
+  - **When:** Off · Only while recording · Always · Count-in only.
+  - **Sound:** Wood (default), Classic beep, Rim, Hi-hat, Shaker, Cowbell, Song's kit (uses the song's own rim or hat), and **Your sample…** (a dashed
+    card: drop a WAV/AIFF or choose a file, optionally a second sample for the accent, trimmed to its start, kept with your settings, not the
+    song). Each card shows the sound's shape and plays it on hover.
+  - **Pattern:** Every beat · Accent bar 1 (default) · 8ths · Follow groove (clicks on the song's swing/shuffle feel) · Bars only (downbeats only,
+    for experienced players). A row of bars under it previews the pattern for two bars of the current metre.
+  - **Level:** Volume and Accent knobs (the same LED-ring knob).
+  - **Switches:** Flash the beat on screen (the time display and the playhead flash on each beat, accent in brass), Click only in headphones (desktop
+    app with a multi-output interface: click on outputs 3–4), Mute during count-in only.
+  - Footer: "Always on the song's grid: tempo changes, metre changes and swing are followed automatically. Never in exports or stems."
+- **Always follows the song:** the click is scheduled from the song's tempo map and metre per section (including tempo automation and the last-chorus
+  +2 BPM kind of moves), so it never drifts. In 6/8 and 12/8 it accents the dotted-quarter pulse, and "8ths" clicks every eighth. Inside FL Studio
+  the plug-in's click follows FL's tempo and stays off by default (FL has its own).
+- **Count-in** stays its own setting (Off / 1 bar / 2 bars) and always uses the click sound, even when the click is off for the take.
+- The click is audible only, never recorded into takes (it is excluded from the input and from export). Settings are saved in app settings,
+  shared by the app and the plug-in, like the theme.
+- Tests: on/off with C; the "when" modes (silent in playback when "Only while recording"); tempo changes and metre changes land on the grid; swing
+  follow; your sample plays and the accent sample on beat 1; never in exports; flash on beat; theme contrast of the menu.
 The desktop app records natively (TakeRecorder). Inside a DAW, recording stays with the DAW, and this panel says so and offers Import a take.
 
 ## 3. The mixer, with your DAW built in (replaces the DAW & MIDI tab)
